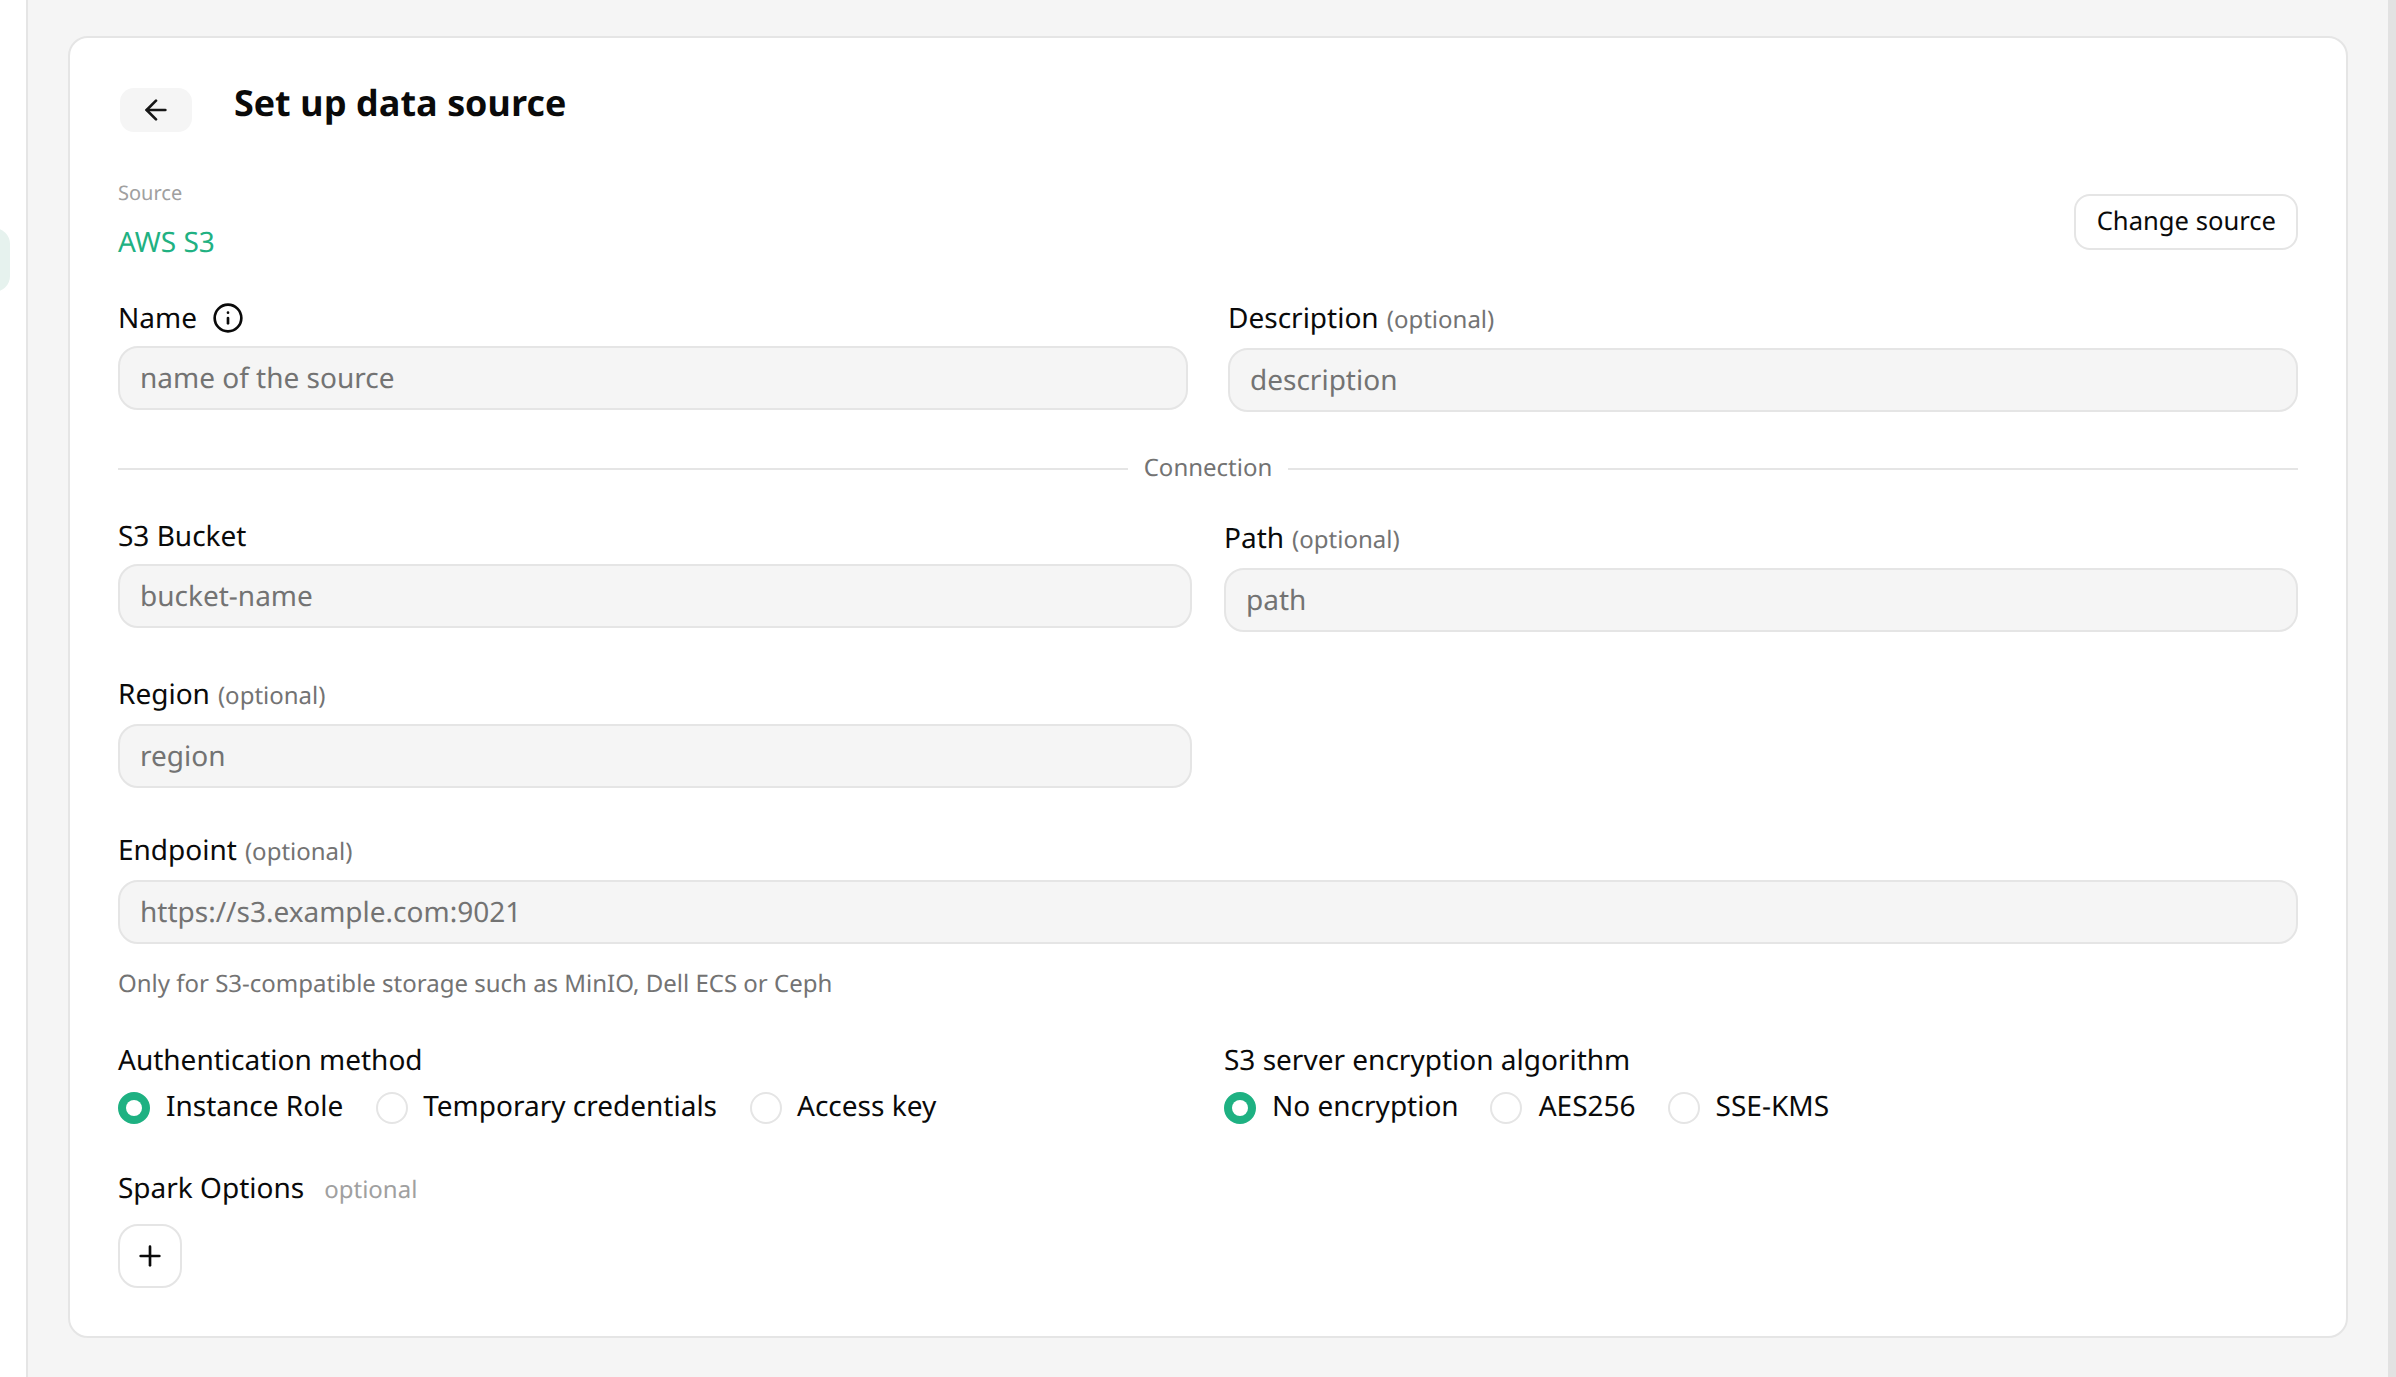
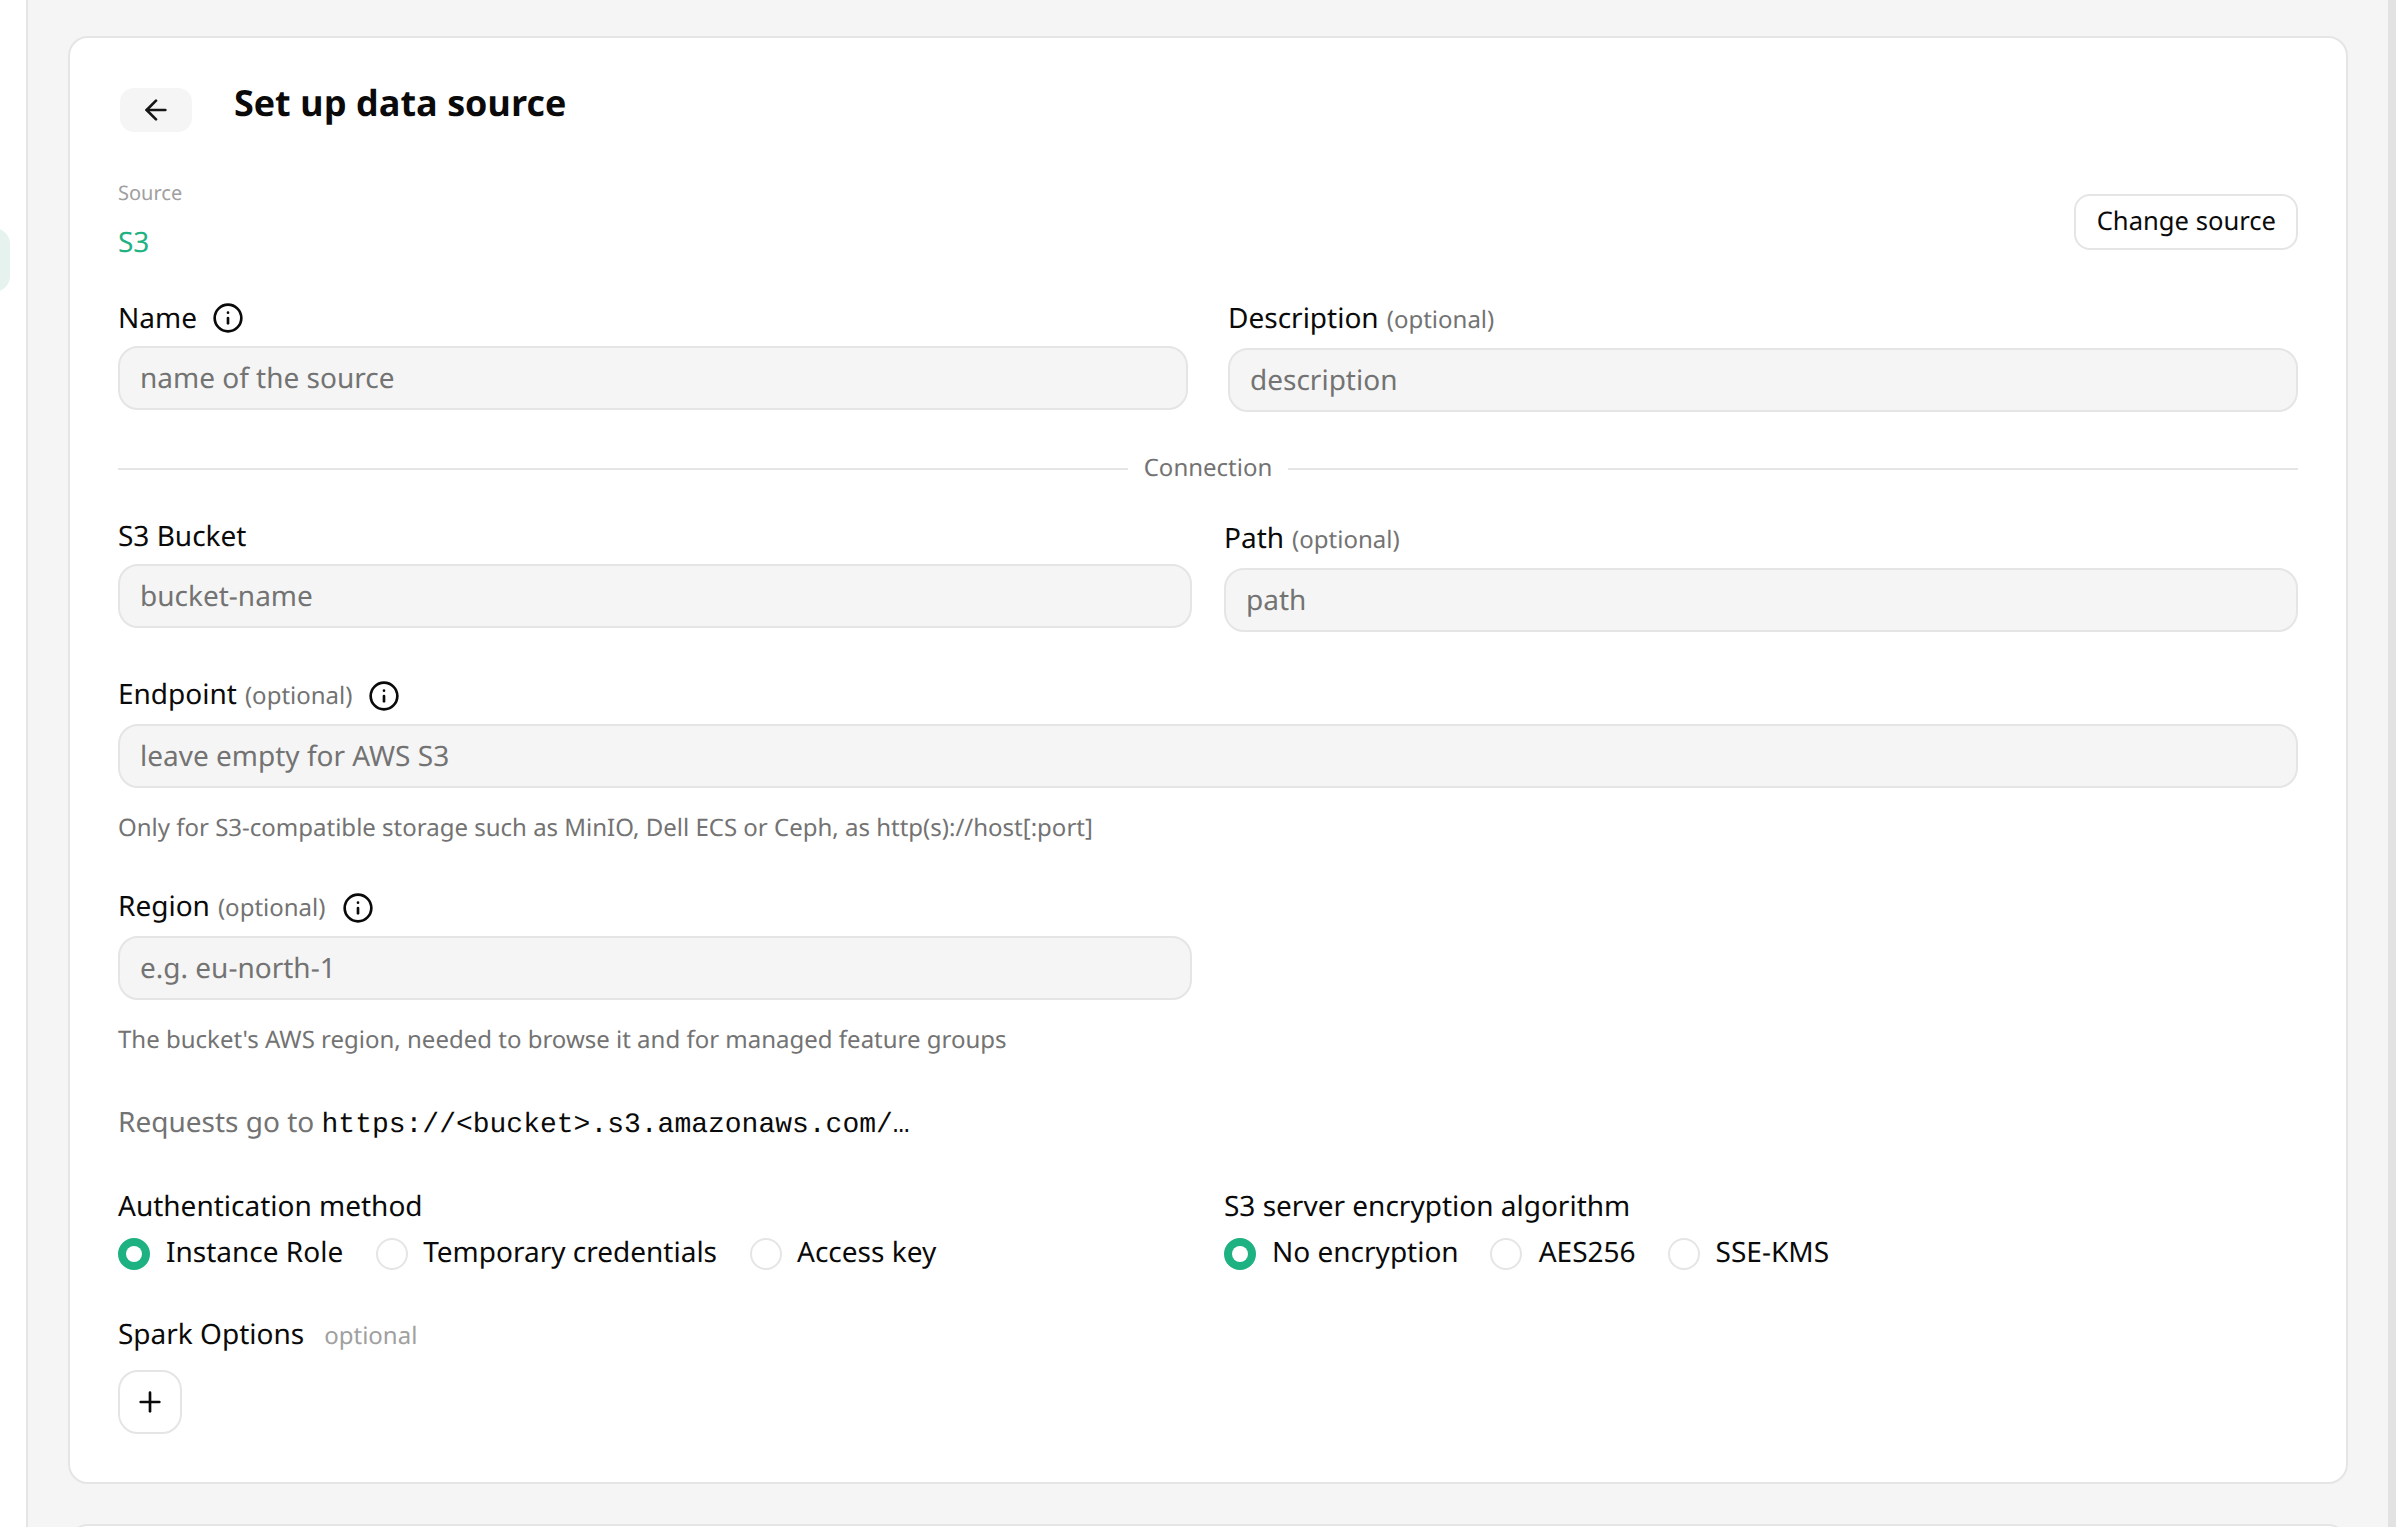
[FSTORE-2163] S3 data source: support S3-compatible storage (custom endpoint, path-style access, private CA, legacy checksums) https://hopsworks.atlassian.net/browse/FSTORE-2163
The S3 data source reaches S3-compatible stores as well as AWS, so the
UI calls it S3 instead of AWS S3. Its form shows what an empty endpoint
and an empty region mean, explains the region, endpoint and path-style
fields in tooltips, and previews the URL that requests go to.

The S3 page names the S3 card and the S3 source line, describes the
request URL preview and says that the region field shows its default.
Both form captures are retaken.

diff --git a/docs/user_guides/fs/data_source/creation/s3.md b/docs/user_guides/fs/data_source/creation/s3.md
@@ -40,7 +40,7 @@ Before you begin this guide you'll need to retrieve the following information fr
 
 Head to the `Data Sources` view on Hopsworks (1) and click `New data source` (2).
 The `Add a data source` catalog lists the available sources, grouped under `Object storage`, `Data warehouse`, `Database`, `Streaming` and `API & SaaS`.
-Pick the `AWS S3` card to open the creation form.
+Pick the `S3` card to open the creation form.
 
 <figure markdown>
   ![Data Source Creation](../../../../assets/images/guides/fs/data_source/data_source_overview.png)
@@ -50,11 +50,12 @@ Pick the `AWS S3` card to open the creation form.
 ### Step 2: Enter Bucket Information
 
 Enter the details for your S3 connector.
-The `Source` line at the top of the form shows `AWS S3`, and `Change source` takes you back to the catalog.
+The `Source` line at the top of the form shows `S3`, and `Change source` takes you back to the catalog.
 Start by giving it a **name** and an optional **description**.
 And set the name of the S3 Bucket you want to point the connector to.
 Optionally, specify the region if you wish to have a Hopsworks-managed feature group stored using this connector.
 For an S3-compatible store, fill in the **Endpoint** as well; the form then offers **Path-style access**, see [S3-compatible storage][data-source-s3-compatible].
+Under the region, the form shows the URL that requests go to, built from the bucket, path, endpoint, path style and region, for example `https://landing.s3.eu-north-1.amazonaws.com/...` on AWS.
 
 <figure markdown>
   ![S3 Connector Creation](../../../../assets/images/guides/fs/data_source/s3_creation.png)
@@ -131,15 +132,15 @@ Set these fields:
   The scheme decides whether the connection uses TLS.
   Hopsworks refuses `localhost` and loopback, link-local and unspecified addresses.
 - **Path-style access:** Turn it on when the store does not resolve a host name per bucket, which is the case for most on-premises stores.
-  The bucket is then sent in the URL path, `https://s3.example.com:9021/landing/...`, instead of the host name, `https://landing.s3.example.com:9021/...`.
+  The bucket is then sent in the URL path, `https://s3.example.com:9021/landing/...`, instead of the host name, `https://landing.s3.example.com:9021/...`; the request URL under the region shows which.
 - **Region:** The region the store is configured with.
-  Left empty, it is `us-east-1`, which stores without regions accept.
+  Left empty, it is `us-east-1`, which stores without regions accept; the field shows it as its placeholder.
   A store configured with another region refuses requests signed for `us-east-1`, so set its region here.
 - **Access Key/Secret:** Required.
   Instance roles and temporary credentials go through AWS, so the form does not offer them with an endpoint.
 
 <figure markdown>
-  ![S3 data source form with an endpoint, an optional region, path-style access and access keys](../../../../assets/images/guides/fs/data_source/s3_compatible_creation.png)
+  ![S3 data source form with an endpoint, path-style access, an optional region, the request URL and access keys](../../../../assets/images/guides/fs/data_source/s3_compatible_creation.png)
   <figcaption>S3 Connector on an S3-compatible store</figcaption>
 </figure>
 
